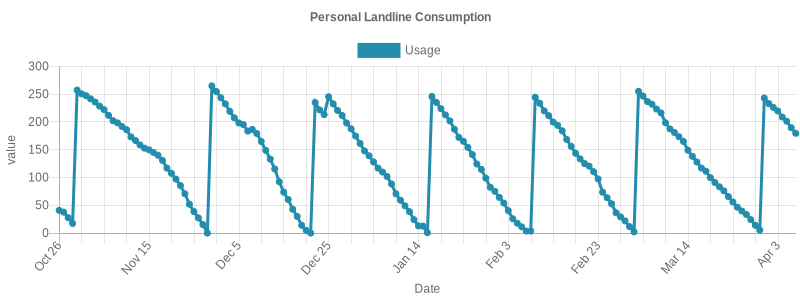
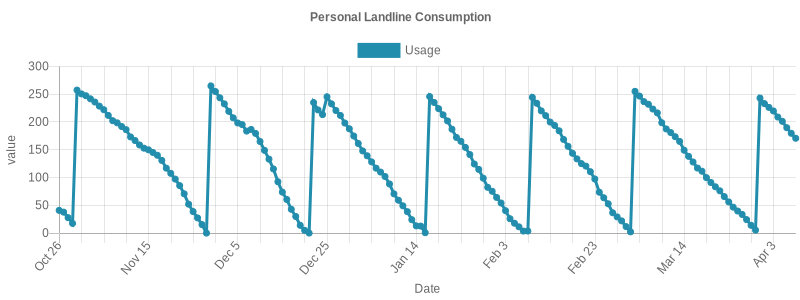
update logs

diff --git a/quota-logs/README.md b/quota-logs/README.md
@@ -163,3 +163,4 @@
 ## Fri Apr 05 2024 00:35:24 GMT+0200|201.2/250
 ## Sat Apr 06 2024 00:35:32 GMT+0200|189.63/250
 ## Sun Apr 07 2024 00:35:36 GMT+0200|179.62/250
+## Mon Apr 08 2024 00:36:42 GMT+0200|170.69/250
